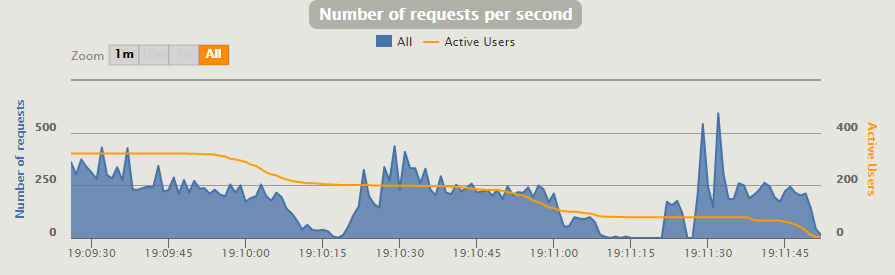
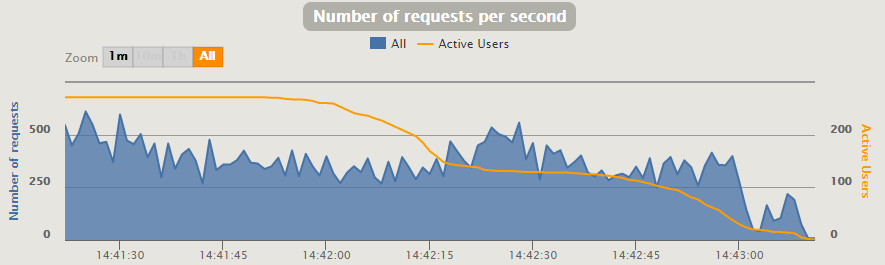
update chapter performance

diff --git a/chapter/08_implementation.tex b/chapter/08_implementation.tex
@@ -188,10 +188,24 @@ Nachdem eine Klasse gewählt wurde, werden die klassenspezifischen Informationen
 
 \subsubsection{Performance Testing}
 \label{chapter_performance_tests}
-Um sicherzustellen, dass nichtfunktionale Anforderungen wie die Response Time und die Scalability erfüllt werden, wurden Performance Tests durchgeführt. Dafür wurde das Tool Gatling \footcite{performance_tests} verwendet. Um so realitätsgetreu und dementsprechend auch sinnvoll wie möglich zu testen, wurden 300 Schüler, 20 Lehrer und 1 Administrator simuliert, welche die Applikation verwendeten. \\
+Um sicherzustellen, dass die nichtfunktionale Anforderung Response Time erfüllt wird, wurden Performance Tests durchgeführt. Dafür wurde das Tool Gatling \footcite{performance_tests} verwendet. Um so realitätsgetreu und dementsprechend auch sinnvoll wie möglich zu testen, wurden 300 Schüler, 20 Lehrer und 1 Administrator simuliert, welche die Applikation zeitgleich verwendeten. \\
 
 \textbf{Auswertung:} \\
-Insgesamt wurden über einen Zeitraum von 2 Minuten und 15 Sekunden 28'183 Requests abgesetzt. In der Abbildung \ref{request_per_second} ist ersichtlich, wie die Requests über den erwähnten Zeitverlauf verteilt absetzt wurden.
+Erste Durchführung: \\
+Bei einer ersten Durchführung wurde festgestellt, dass noch einige Probleme vorliegen. Wie in der Abbildung \ref{performance_tests_vorher} zu sehen ist, benötigte die Applikation bei mehr als einem Drittel der eingegangen Anfragen mehr als eine Sekunde um darauf zu antworten. Bei beinahe einem Drittel wurde sogar gar keine Antwort gesendet. Das Problem konnte darauf zurück geführt werden, dass bei jeder Anfrage ebenfalls eine Anfrage an Bootstrap, etc. gesendet wurde.
+
+	\begin{figure}[H]
+		\includegraphics[width=\textwidth, height=\textheight, keepaspectratio]{images/performance_uebersicht_vorher.png}
+		\caption{Performance Test Übersicht vorher}
+			\label{performance_tests_vorher}
+	\end{figure}
+
+Massnahmen: \\
+Anhand der Erkentnisse der ersten Durchführung, wurden Bibliotheken, wie zum Beispiel 'jquery-3.1.1.min.js' und 'bootstrap.min.css', welche für die Darstellung der Seiten benötigt werden, statisch in die Applikation eingebunden.
+
+
+Zweite Durchführung: \\
+Insgesamt wurden über einen Zeitraum von 1 Minute und 51 Sekunden 38'909 Requests abgesetzt. In der Abbildung \ref{request_per_second} ist ersichtlich, wie die Requests über den erwähnten Zeitverlauf verteilt absetzt wurden.
 
 	\begin{figure}[H]
 		\includegraphics[width=\textwidth, height=\textheight, keepaspectratio]{images/performance_requests_per_second.png}
@@ -199,11 +213,11 @@ Insgesamt wurden über einen Zeitraum von 2 Minuten und 15 Sekunden 28'183 Reque
 			\label{request_per_second}
 	\end{figure}
 
-Wie in der Abbildung \ref{performance_tests} ersichtlich ist, benötigte die Applikation bei etwa 6\% der eingegangenen Anfragen etwas länger als eine Sekunde für die Antwort. Grund dafür ist unter anderem das Laden von Bibliotheken, wie zum Beispiel 'jquery-3.1.1.min.js' und 'bootstrap.min.css', welche für die Darstellung der Seite benötigt werden. Diese Bibliotheken wurden zwar statisch in die Applikation eingebunden, was die Performance bereits stark verbesserte, jedoch noch nicht ausreicht. 
+Wie in der Abbildung \ref{performance_tests} ersichtlich ist, benötigte die Applikation bei etwa 5\% der eingegangenen Anfragen etwas länger als eine Sekunde für die Antwort. Im Vergleich zur ersten Durchführung ist dies eine enorme Verbesserung.
 
 	\begin{figure}[H]
 		\includegraphics[width=\textwidth, height=\textheight, keepaspectratio]{images/performance_uebersicht.png}
-		\caption{Performance Test Übersicht}
+		\caption{Performance Test Übersicht nachher}
 			\label{performance_tests}
 	\end{figure}
 
